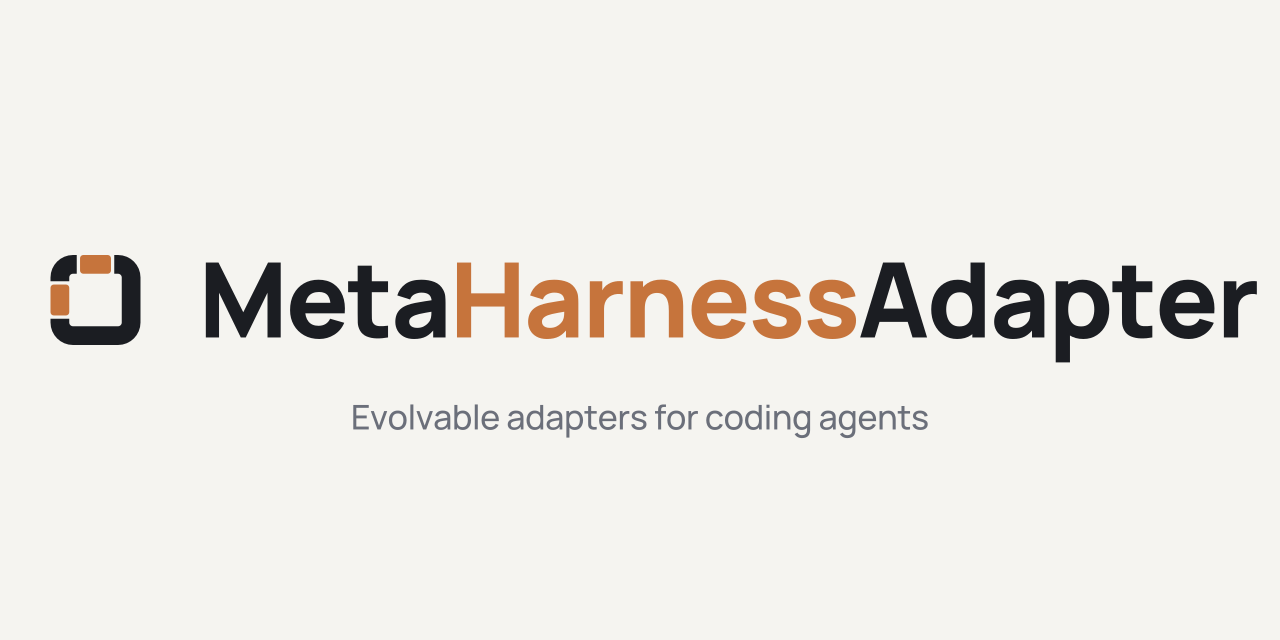
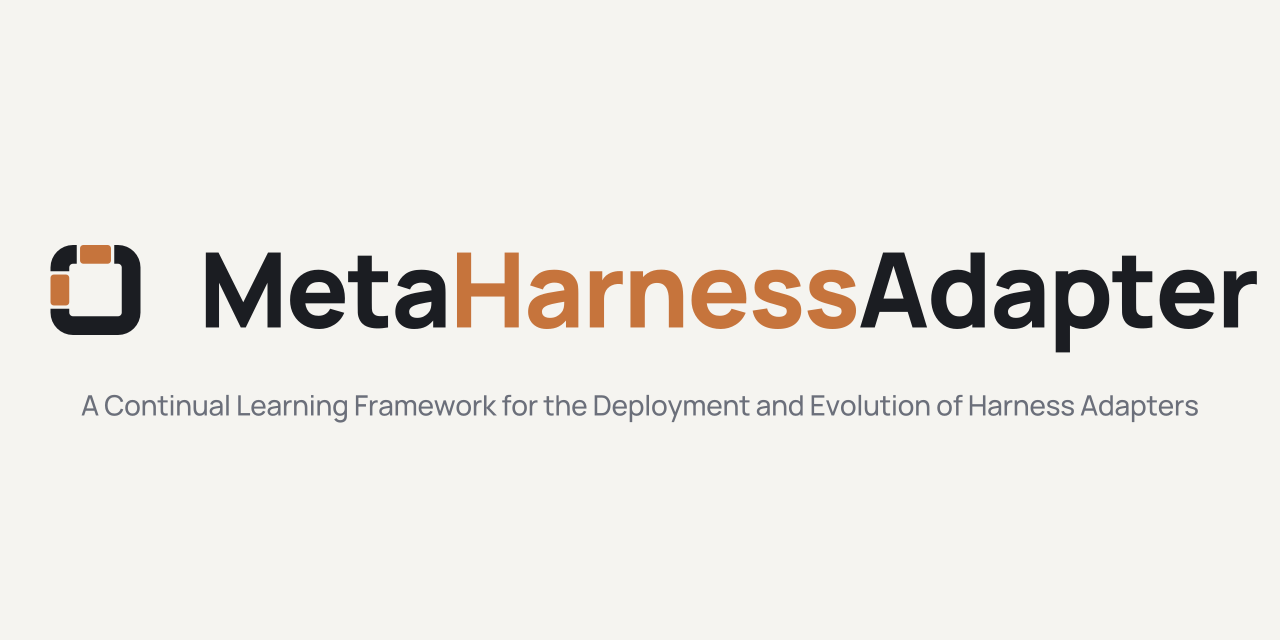
docs: reposition README as a continual learning framework
Replace the tagline with "A Continual Learning Framework for the
Deployment and Evolution of Harness Adapters" and rewrite the intro
to state the thesis directly: rather than evolving an agent's own
harness, optimize an external, portable harness adapter, which also
works for black-box agents such as Codex and Claude Code.

Regenerate the social preview with the new tagline.

diff --git a/README.md b/README.md
@@ -5,7 +5,7 @@
   <img src="assets/wordmark-light.svg" alt="MetaHarnessAdapter" width="540">
 </picture>
 
-**Evolvable adapters for coding agents: learn from experience, deploy as context, tools, and roles.**
+**A Continual Learning Framework for the Deployment and Evolution of Harness Adapters**
 
 [Quickstart](#quickstart) · [How it works](#how-it-works) · [Architectures](#architectures) · [Guide](docs/guide/index.md) · [Status](docs/guide/status.md)
 
@@ -15,15 +15,7 @@
 
 ---
 
-Coding agents such as Codex and Claude Code already have a harness. What they lack is a capability that keeps improving without changing the agent itself. MetaHarnessAdapter adds that layer.
-
-An **Adapter** is a plain directory of prompts, knowledge, ordinary Python functions, and role definitions. The framework projects it into whatever a host understands: project instructions, an MCP server, native subagents. A separate **Evolver** reads recorded experience and rewrites the Adapter inside an OS sandbox, producing a new candidate you can review and deploy. The acting agent and the learning loop stay decoupled.
-
-Use it when you want to:
-
-- Give an existing agent domain knowledge or tools that live outside its prompt and version independently.
-- Turn logs, observations, or feedback into a better Adapter with an explicit, auditable update step.
-- Try different learning methods (a plain prompt-driven Evolver, the bundled MWM method, your own) against the same Adapter.
+MetaHarnessAdapter is an open-source continual learning framework for deploying and evolving external harness adapters. Instead of evolving the original harness, which can be impractical in many cases, we propose optimizing an external, portable harness (harness adapter) to improve agent performance in continual learning. The harness adapter enables us to enhance even complex or black-box agents, such as Codex and Claude Code. This repository provides the abstractions and interfaces that support the deployment and evolution of harness adapters.
 
 ## Quickstart
 
